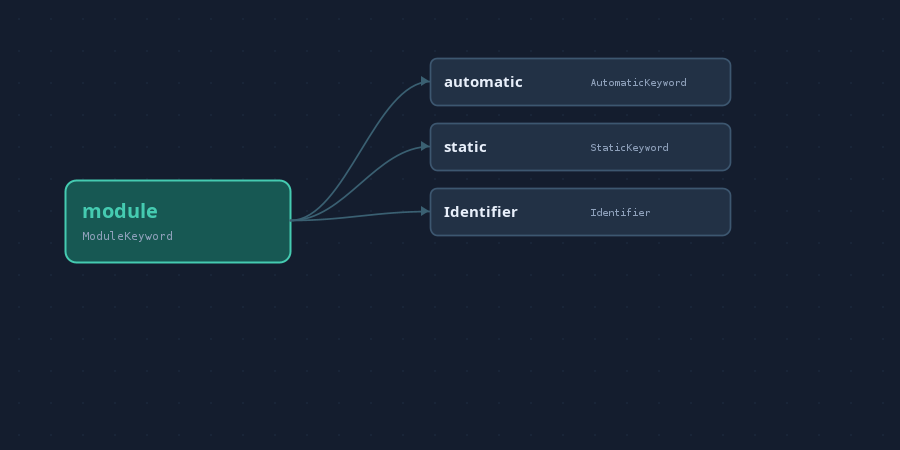
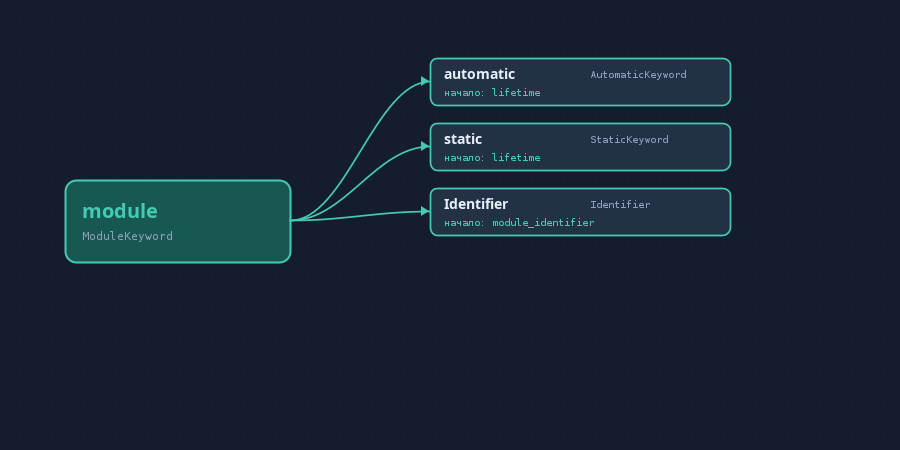
Show context-aware grammar rule starts

diff --git a/src/main/kotlin/dev/veriloggraph/GraphWindow.kt b/src/main/kotlin/dev/veriloggraph/GraphWindow.kt
@@ -39,7 +39,7 @@ private val light = Color(232, 239, 250)
 private val accent = Color(69, 203, 177)
 
 class GraphWindow(private val catalog: TokenCatalog, private val grammar: Grammar) : JFrame("VerilogGraph — IEEE 1800-2023") {
-    private val explorer = Explorer(grammar, catalog)
+    private val explorer = Explorer(grammar, catalog, "source_text")
     private val tokenGraph = TokenGraph(grammar, catalog)
     private val search = JTextField()
     private val tokenModel = DefaultListModel<TokenKind>()
@@ -142,6 +142,12 @@ class GraphWindow(private val catalog: TokenCatalog, private val grammar: Gramma
             }
         })
         actions.add(button("↺ module") { openModule() })
+        actions.add(button("↺ файл") {
+            globalToken = null
+            explorer.reset("source_text")
+            showingNext = true
+            refresh()
+        })
         actions.add(button("→ Дальше") {
             showingNext = true
             refresh()
@@ -209,7 +215,7 @@ class GraphWindow(private val catalog: TokenCatalog, private val grammar: Gramma
     }
 
     private fun selectToken(token: TokenKind) {
-        explorer.reset()
+        explorer.reset("source_text")
         globalToken = null
         showingNext = explorer.advance(token.name)
         if (!showingNext) {
@@ -221,7 +227,7 @@ class GraphWindow(private val catalog: TokenCatalog, private val grammar: Gramma
 
     private fun openModule() {
         globalToken = null
-        explorer.reset()
+        explorer.reset("source_text")
         check(explorer.advance("ModuleKeyword"))
         showingNext = false
         refresh()
@@ -251,14 +257,17 @@ class GraphWindow(private val catalog: TokenCatalog, private val grammar: Gramma
         val current = explorer.prefix.lastOrNull()
         path.text = explorer.prefix.joinToString("  →  ") { it.label }
         val candidates = if (showingNext) explorer.next() else emptyList()
-        graph.show(current, candidates, showingNext)
+        graph.show(current, candidates, showingNext, contextual = true)
         details.text = buildString {
             append("Контекст: ").append(explorer.root).append("\n")
             append("Префикс: ").append(explorer.prefix.joinToString(" ") { it.label }).append("\n")
             if (explorer.isComplete()) append("Правило может завершиться здесь.\n")
             if (!showingNext) append("Нажмите «→ Дальше», чтобы увидеть непосредственные продолжения.\n")
+            if (showingNext) append("Начало отмечает именованное правило Annex A, которое может начаться на следующем токене.\n")
             for (candidate in candidates) {
                 append("\n").append(candidate.token.label).append("  [").append(candidate.token.name).append("]\n")
+                if (candidate.starts.isEmpty()) append("  Без начала нового именованного правила.\n")
+                else append("  Могут начаться: ").append(candidate.starts.joinToString()).append("\n")
                 for (name in candidate.rules.take(3)) {
                     val source = grammar.sources[name]
                     if (source != null) append("  ").append(source.section).append("  ")
@@ -273,10 +282,10 @@ class GraphWindow(private val catalog: TokenCatalog, private val grammar: Gramma
 }
 
 fun saveModulePreview(catalog: TokenCatalog, grammar: Grammar, path: Path) {
-    val explorer = Explorer(grammar, catalog)
+    val explorer = Explorer(grammar, catalog, "source_text")
     check(explorer.advance("ModuleKeyword"))
     val canvas = GraphCanvas { }
-    canvas.show(catalog.byName["ModuleKeyword"], explorer.next(), true)
+    canvas.show(catalog.byName["ModuleKeyword"], explorer.next(), true, contextual = true)
     canvas.setSize(900, 450)
     val image = BufferedImage(900, 450, BufferedImage.TYPE_INT_ARGB)
     val graphics = image.createGraphics()
@@ -289,6 +298,7 @@ private class GraphCanvas(private val onChoose: (Candidate) -> Unit) : JPanel() 
     private var current: TokenKind? = null
     private var successors = emptyList<Candidate>()
     private var revealed = false
+    private var contextual = false
     private val hitboxes = mutableListOf<Pair<java.awt.Rectangle, Candidate>>()
 
     init {
@@ -307,10 +317,11 @@ private class GraphCanvas(private val onChoose: (Candidate) -> Unit) : JPanel() 
         })
     }
 
-    fun show(current: TokenKind?, successors: List<Candidate>, revealed: Boolean) {
+    fun show(current: TokenKind?, successors: List<Candidate>, revealed: Boolean, contextual: Boolean = false) {
         this.current = current
         this.successors = successors
         this.revealed = revealed
+        this.contextual = contextual
         preferredSize = Dimension(900, maxOf(450, 100 + successors.size * 65))
         revalidate()
         repaint()
@@ -348,20 +359,28 @@ private class GraphCanvas(private val onChoose: (Candidate) -> Unit) : JPanel() 
                 val tx = 430
                 val tw = 300
                 val th = 47
-                g2.color = Color(58, 96, 114)
+                val begins = contextual && candidate.starts.isNotEmpty()
+                g2.color = if (begins) accent else Color(58, 96, 114)
                 g2.stroke = BasicStroke(1.7f)
                 g2.draw(CubicCurve2D.Float((x + w).toFloat(), centerY.toFloat(), 345f, centerY.toFloat(), 375f, (y + 23).toFloat(), tx.toFloat(), (y + 23).toFloat()))
                 g2.fillPolygon(intArrayOf(tx - 1, tx - 9, tx - 9), intArrayOf(y + 23, y + 18, y + 28), 3)
                 g2.color = Color(34, 49, 69)
                 g2.fill(RoundRectangle2D.Float(tx.toFloat(), y.toFloat(), tw.toFloat(), th.toFloat(), 15f, 15f))
-                g2.color = Color(61, 87, 112)
+                g2.color = if (begins) accent else Color(61, 87, 112)
                 g2.draw(RoundRectangle2D.Float(tx.toFloat(), y.toFloat(), tw.toFloat(), th.toFloat(), 15f, 15f))
                 g2.color = light
-                g2.font = Font("SansSerif", Font.BOLD, 15)
-                g2.drawString(candidate.token.label.take(27), tx + 14, y + 29)
+                g2.font = Font("SansSerif", Font.BOLD, 14)
+                g2.drawString(candidate.token.label.take(19), tx + 14, y + 21)
                 g2.font = Font("Monospaced", Font.PLAIN, 10)
                 g2.color = muted
-                g2.drawString(candidate.token.name.take(22), tx + 160, y + 28)
+                g2.drawString(candidate.token.name.take(20), tx + 160, y + 20)
+                if (contextual) {
+                    g2.color = if (begins) accent else muted
+                    val rule = candidate.starts.firstOrNull { it.endsWith("_declaration") || it.endsWith("_construct") }
+                        ?: candidate.starts.firstOrNull()
+                    val label = if (rule == null) "без начала нового правила" else "начало: $rule"
+                    g2.drawString(label.take(45), tx + 14, y + 38)
+                }
                 hitboxes += java.awt.Rectangle(tx, y, tw, th) to candidate
             }
         } else {

diff --git a/src/test/kotlin/dev/veriloggraph/TransitionContextTest.kt b/src/test/kotlin/dev/veriloggraph/TransitionContextTest.kt
@@ -1,0 +1,79 @@
+package dev.veriloggraph
+
+import java.io.StringReader
+import java.io.StringWriter
+import kotlin.test.Test
+import kotlin.test.assertContains
+import kotlin.test.assertEquals
+import kotlin.test.assertFalse
+import kotlin.test.assertTrue
+
+class TransitionContextTest {
+    private fun file(): Explorer = TestFixture.explorer().apply { reset("source_text") }
+
+    private fun Explorer.candidate(kind: String): Candidate =
+        next().single { it.token.name == kind }
+
+    @Test fun nextModuleAfterEndmoduleStartsAnotherDescription() {
+        val explorer = file().accept("ModuleKeyword", "Identifier", "Semicolon", "EndModuleKeyword")
+        assertTrue(explorer.isComplete())
+        val module = explorer.candidate("ModuleKeyword")
+        assertContains(module.starts, "description")
+        assertContains(module.starts, "module_declaration")
+        assertContains(explorer.candidate("PackageKeyword").starts, "package_declaration")
+    }
+
+    @Test fun colonAfterEndmoduleContinuesTheSameModule() {
+        val explorer = file().accept("ModuleKeyword", "Identifier", "Semicolon", "EndModuleKeyword")
+        val colon = explorer.candidate("Colon")
+        assertEquals(emptySet(), colon.starts)
+        assertContains(colon.rules, "module_declaration")
+        explorer.accept("Colon", "Identifier")
+        assertTrue(explorer.isComplete())
+        assertContains(explorer.candidate("ModuleKeyword").starts, "module_declaration")
+    }
+
+    @Test fun topLevelEndmoduleCannotBeFollowedByAlwaysOrAnotherEndmodule() {
+        val explorer = file().accept("ModuleKeyword", "Identifier", "Semicolon", "EndModuleKeyword")
+        assertFalse(explorer.next().any { it.token.name == "AlwaysKeyword" })
+        assertFalse(explorer.next().any { it.token.name == "EndModuleKeyword" })
+        assertTrue(explorer.back())
+        assertFalse(explorer.next().any { it.token.name == "PackageKeyword" })
+        assertContains(explorer.candidate("AlwaysKeyword").starts, "always_construct")
+    }
+
+    @Test fun nestedEndmoduleCanStartAnAlwaysConstructInOuterModule() {
+        val explorer = file().accept(
+            "ModuleKeyword", "Identifier", "Semicolon",
+            "ModuleKeyword", "Identifier", "Semicolon", "EndModuleKeyword"
+        )
+        assertFalse(explorer.isComplete())
+        assertContains(explorer.candidate("AlwaysKeyword").starts, "always_construct")
+        assertEquals(emptySet(), explorer.candidate("EndModuleKeyword").starts)
+        assertContains(explorer.candidate("ModuleKeyword").starts, "module_declaration")
+        explorer.accept("EndModuleKeyword")
+        assertTrue(explorer.isComplete())
+    }
+
+    @Test fun isolatedModuleRuleDoesNotOfferNextTopLevelConstruct() {
+        val explorer = TestFixture.explorer().accept(
+            "ModuleKeyword", "Identifier", "Semicolon", "EndModuleKeyword"
+        )
+        assertEquals(setOf("Colon"), explorer.next().mapTo(linkedSetOf()) { it.token.name })
+        assertEquals(emptySet(), explorer.candidate("Colon").starts)
+    }
+
+    @Test fun cliShowsBoundaryOnlyForContextualTransitions() {
+        val output = StringWriter()
+        runCli(TestFixture.catalog, TestFixture.grammar,
+            StringReader("step module\nstep Identifier\nstep ;\nstep endmodule\nnext module\nnext :\nglobal endmodule module\nquit\n"),
+            output, "source_text")
+        val text = output.toString()
+        assertTrue(Regex("ModuleKeyword \\(module\\).*\\[начало: [^]]*module_declaration").containsMatchIn(text))
+        assertTrue(Regex("Colon \\(:\\).*\\[без начала нового правила\\]").containsMatchIn(text))
+        val global = text.substringAfter("Глобальные продолжения EndModuleKeyword")
+            .substringBefore("vg>")
+        assertFalse(global.contains("[начало:"))
+        assertFalse(global.contains("[без начала нового правила]"))
+    }
+}

diff --git a/src/main/kotlin/dev/veriloggraph/Explorer.kt b/src/main/kotlin/dev/veriloggraph/Explorer.kt
@@ -2,7 +2,12 @@ package dev.veriloggraph
 
 import java.util.ArrayDeque
 
-data class Candidate(val token: TokenKind, val rules: Set<String>)
+data class Candidate(
+    val token: TokenKind,
+    val rules: Set<String>,
+    /** Named Annex A rules that can begin at this token in the current prefix. */
+    val starts: Set<String> = emptySet(),
+)
 
 /** Earley prefix recognizer. Each click extends one grammar-valid token prefix. */
 class Explorer(
@@ -14,6 +19,7 @@ class Explorer(
 
     private val chart = mutableListOf(linkedSetOf<Item>())
     private val productive: Set<String> = findProductive()
+    private val first: Map<String, Set<String>> = findFirst()
     val prefix = mutableListOf<TokenKind>()
     var root: String = initialRule
         private set
@@ -36,13 +42,20 @@ class Explorer(
 
     fun next(): List<Candidate> {
         val groups = linkedMapOf<String, MutableSet<String>>()
+        val startingRules = chart.last().asSequence()
+            .filter { item -> item.origin == prefix.size && item.dot == 0 }
+            .map { item -> grammar.productions[item.production].left }
+            .filter { it in grammar.sources }
+            .distinct().toList()
         for (item in chart.last()) {
             val production = grammar.productions[item.production]
             val token = production.right.getOrNull(item.dot) as? Symbol.Token ?: continue
             groups.getOrPut(token.kind) { linkedSetOf() } += production.source
         }
         return groups.mapNotNull { (name, rules) ->
-            catalog.byName[name]?.let { Candidate(it, rules) }
+            catalog.byName[name]?.let { token ->
+                Candidate(token, rules, startingRules.filterTo(linkedSetOf()) { name in first[it].orEmpty() })
+            }
         }.sortedWith(compareBy({ it.token.spelling == null }, { it.token.label }))
     }
 
@@ -125,5 +138,33 @@ class Explorer(
             }
         } while (changed)
         return known
+    }
+
+    private fun findFirst(): Map<String, Set<String>> {
+        val first = grammar.byLeft.keys.associateWith { linkedSetOf<String>() }
+        val nullable = mutableSetOf<String>()
+        var changed: Boolean
+        do {
+            changed = false
+            for (production in grammar.productions) {
+                if (!production.isProductive()) continue
+                var empty = true
+                for (symbol in production.right) {
+                    when (symbol) {
+                        is Symbol.Token -> {
+                            if (first.getValue(production.left).add(symbol.kind)) changed = true
+                            empty = false
+                        }
+                        is Symbol.Rule -> {
+                            if (first.getValue(production.left).addAll(first[symbol.name].orEmpty())) changed = true
+                            empty = symbol.name in nullable
+                        }
+                    }
+                    if (!empty) break
+                }
+                if (empty && nullable.add(production.left)) changed = true
+            }
+        } while (changed)
+        return first
     }
 }

diff --git a/src/main/kotlin/dev/veriloggraph/Cli.kt b/src/main/kotlin/dev/veriloggraph/Cli.kt
@@ -35,7 +35,7 @@ fun runCli(
         out.println("Префикс: ${explorer.prefix.joinToString(" ") { it.tokenText() }.ifEmpty { "(пусто)" }}")
         out.println(if (explorer.isComplete()) "Конструкция может завершиться здесь." else "Конструкция пока не завершена.")
     }
-    fun candidates(items: List<Candidate>, limit: Int = 40) {
+    fun candidates(items: List<Candidate>, limit: Int = 40, contextual: Boolean = true) {
         if (items.isEmpty()) {
             out.println("Следующих токенов нет.")
             return
@@ -44,7 +44,12 @@ fun runCli(
         for (item in items.take(limit)) {
             val sources = item.rules.take(3).joinToString()
             val more = if (item.rules.size > 3) " (+${item.rules.size - 3})" else ""
-            out.println("  ${item.token.tokenText()}  ←  $sources$more")
+            val boundary = when {
+                !contextual -> ""
+                item.starts.isEmpty() -> "  [без начала нового правила]"
+                else -> "  [начало: ${item.starts.joinToString()}]"
+            }
+            out.println("  ${item.token.tokenText()}  ←  $sources$more$boundary")
         }
         if (items.size > limit) out.println("Показаны первые $limit; используйте фильтр команды.")
     }
@@ -124,7 +129,7 @@ fun runCli(
                         query.isEmpty() || query == "*" ||
                             it.token.name.contains(query, true) || it.token.label.contains(query, true)
                     }
-                    candidates(items, if (query == "*") Int.MAX_VALUE else 40)
+                    candidates(items, if (query == "*") Int.MAX_VALUE else 40, contextual = false)
                 }
             }
             "edge" -> {

diff --git a/README.md b/README.md
@@ -1,6 +1,6 @@
 # VerilogGraph
 
-Интерактивный граф видов токенов SystemVerilog на Kotlin/Swing. В левой панели — все 352 `TokenKind` из закреплённой ревизии [slang](https://github.com/MikePopoloski/slang). В центре — вершина и непосредственные допустимые продолжения; щелчок по вершине продвигает просмотр. Для `module` сохраняется грамматический контекст `module_declaration`, так что каждый следующий шаг относится к тому же префиксу конструкции.
+Интерактивный граф видов токенов SystemVerilog на Kotlin/Swing. В левой панели — все 352 `TokenKind` из закреплённой ревизии [slang](https://github.com/MikePopoloski/slang). В центре — вершина и непосредственные допустимые продолжения; щелчок по вершине продвигает просмотр. Сценарий `module` использует контекст `source_text`: после `endmodule` можно перейти к следующему объявлению. Для каждого продолжения показано, какие именованные правила Annex A могут начаться на этом токене. Кнопка `↺ файл` открывает начало исходного текста.
 
 ![Граф допустимых продолжений module](docs/module-preview.png)
 
@@ -20,6 +20,7 @@
 ```bash
 ./gradlew run
 ./gradlew run --args='--cli'
+./gradlew run --args='--cli source_text'
 ./gradlew run --args='--cli generate_region'
 ./gradlew check
 ./gradlew run --args='--check'
@@ -31,26 +32,26 @@ build/install/veriloggraph/bin/veriloggraph
 build/install/veriloggraph/bin/veriloggraph --cli
 ```
 
-`--cli` запускает интерактивный просмотр грамматики в терминале. `next` показывает допустимые следующие `TokenKind`, `next endmodule` фильтрует список, `next *` показывает его полностью. `step module` или `step ModuleKeyword` добавляет токен к префиксу, `back` отменяет шаг, `use package_declaration` меняет грамматическое правило. `rules [поиск]` и `tokens [поиск]` находят правила и токены; `rule <имя>` показывает текст правила; `global <токен> [поиск]` и `edge <от> <к>` показывают глобальные рёбра и их происхождение. Без фильтра длинный список ограничен первыми 40 строками. `help` выводит все команды, `quit` завершает сеанс. При запуске с аргументом `--cli <правило>` указанное правило выбирается сразу. Внутри CLI цепочка `step` проверяется в одном контексте; команда `global` показывает объединение рёбер без изменения текущего префикса.
+`--cli` запускает интерактивный просмотр грамматики в терминале. `next` показывает допустимые следующие `TokenKind` и правила, которые могут начаться на каждом из них; `next endmodule` фильтрует список, `next *` показывает его полностью. `step module` или `step ModuleKeyword` добавляет токен к префиксу, `back` отменяет шаг, `use source_text` переключает на просмотр целого файла, `use package_declaration` выбирает отдельное правило. `rules [поиск]` и `tokens [поиск]` находят правила и токены; `rule <имя>` показывает текст правила; `global <токен> [поиск]` и `edge <от> <к>` показывают глобальные рёбра и их происхождение. Без фильтра длинный список ограничен первыми 40 строками. `help` выводит все команды, `quit` завершает сеанс. При запуске с аргументом `--cli <правило>` указанное правило выбирается сразу. Внутри CLI цепочка `step` проверяется в одном контексте; команда `global` показывает объединение рёбер без изменения текущего префикса и без меток начала правил.
 
 `./gradlew check` запускает проверки графа автоматически. `--check` проверяет путь `module → Identifier → ; → endmodule`, вариант с `automatic`, буквальные скобки, числовую основу и системные проверки времени. `--audit` печатает обозначения, которые нельзя однозначно сопоставить с токеном. DOT экспортирует весь полученный граф с правилом происхождения на каждом ребре.
 `--preview` сохраняет изображение сценария `module → …` без запуска оконной системы.
 
-`./gradlew test` запускает 946 тестов. Из них 194 — конкретные примеры и проверки ошибок для каталога, импорта, CLI, чисел, графа, DOT, PNG и разных конструкций SystemVerilog. Ещё по одному тесту создано для каждого из 750 имён правил Annex A: для 725 развёрнутых правил строится кратчайшая цепочка `TokenKind` и проверяется её прохождение; 17 правил сверяются с одним видом токена slang; 8 посимвольных правил отмечены отдельно, поскольку не образуют самостоятельной цепочки токенов. Два теста проверяют границы этого покрытия. Автоматически построенные пути проверяют согласованность импортёра и пошагового просмотрщика. Конкретные сценарии дополнительно проверяют отдельные конструкции; полная независимая сверка извлечённой грамматики со стандартом ещё требуется. `./gradlew check` дополнительно запускает встроенную проверку типовых путей через `--check`.
+`./gradlew test` запускает 952 теста. Из них 200 — конкретные примеры и проверки ошибок для каталога, импорта, CLI, чисел, графа, DOT, PNG и разных конструкций SystemVerilog, включая границы после обычного и вложенного `endmodule`. Ещё по одному тесту создано для каждого из 750 имён правил Annex A: для 725 развёрнутых правил строится кратчайшая цепочка `TokenKind` и проверяется её прохождение; 17 правил сверяются с одним видом токена slang; 8 посимвольных правил отмечены отдельно, поскольку не образуют самостоятельной цепочки токенов. Два теста проверяют границы этого покрытия. Автоматически построенные пути проверяют согласованность импортёра и пошагового просмотрщика. Конкретные сценарии дополнительно проверяют отдельные конструкции; полная независимая сверка извлечённой грамматики со стандартом ещё требуется. `./gradlew check` дополнительно запускает встроенную проверку типовых путей через `--check`.
 
 ## Как устроены переходы
 
-Импортёр читает правила Annex A из PDF, сохраняет выделенные в нём буквальные терминалы, преобразует альтернативы, необязательные части и повторения в продукции, затем сопоставляет терминалы с реальными `TokenKind` slang. Граф строится из множеств первых и последних токенов продукций. Пошаговый просмотр `module_declaration` использует распознаватель префиксов Earley, поэтому после выбора `module` выводятся `automatic`, `static` и `Identifier`, а после `module Identifier` — `#`, `(`, `;` и `import`.
+Импортёр читает правила Annex A из PDF, сохраняет выделенные в нём буквальные терминалы, преобразует альтернативы, необязательные части и повторения в продукции, затем сопоставляет терминалы с реальными `TokenKind` slang. Глобальный граф строится из множеств первых и последних токенов продукций. Пошаговый просмотр использует распознаватель префиксов Earley, поэтому после выбора `module` выводятся `automatic`, `static` и `Identifier`, а после `module Identifier` — `#`, `(`, `;` и `import`. Для каждого следующего токена распознаватель сопоставляет текущие позиции начала правил с их допустимыми первыми токенами. Так после верхнеуровневого `endmodule` двоеточие продолжает тот же модуль, а `module` начинает новый `module_declaration`.
 
-При выборе другого токена из списка показывается объединение непосредственных переходов во всей грамматике. В этом режиме каждое ребро обосновано отдельно; составная цепочка может относиться к разным контекстам. Правила и разделы Annex A показаны под графом.
+Если выбранный токен из левого списка может начать `source_text`, он открывается в контекстном режиме. Для остальных токенов показывается объединение непосредственных переходов во всей грамматике. В этом режиме каждое ребро обосновано отдельно; составная цепочка может относиться к разным контекстам, поэтому метки начала правил не показываются. Правила и разделы Annex A показаны под графом.
 
 ## Состояние инструмента и следующие задачи
 
-Сейчас это просмотрщик **видов токенов**: в GUI можно искать токен, открыть его глобальные продолжения, а сценарий `module` проходить пошагово с сохранением грамматического контекста. Граф включает все 352 вида токенов закреплённой ревизии slang; переходы выводятся из импортированных правил Annex A. Доступны DOT, PNG примера, отчёт об импорте и запускаемый дистрибутив Gradle.
+Сейчас это просмотрщик **видов токенов**: в GUI можно искать токен, открыть его глобальные продолжения, а исходный текст проходить пошагово с сохранением грамматического контекста и отметками начала именованных правил. Граф включает все 352 вида токенов закреплённой ревизии slang; переходы выводятся из импортированных правил Annex A. Доступны DOT, PNG примера, отчёт об импорте и запускаемый дистрибутив Gradle.
 
 Для более точного ответа на вопрос «какой токен может идти следующим в *этом* коде» нужны следующие шаги:
 
-1. **Выбор контекста в GUI.** CLI уже позволяет выбрать произвольное импортированное правило, но графический интерфейс открывает контекстный маршрут только для `module_declaration`. Для остальных выбранных токенов в GUI показывается объединение рёбер разных правил; цепочка щелчков в этом режиме не проверяется как единый допустимый префикс.
+1. **Выбор произвольного правила в GUI.** Графический интерфейс проходит `source_text`, начиная с `module` или начала файла; CLI позволяет выбрать любое импортированное правило. Если токен из левого списка не может начать `source_text`, GUI показывает глобальные продолжения без контекстной проверки. Для него ещё нужен выбор правила в самом GUI.
 2. **Проверка конкретных написаний.** Вершина `Identifier` объединяет любые идентификаторы, а `IntegerBase` — несколько оснований числа. Рёбра не хранят текст лексем и пробелы между ними. Для проверки исходного файла понадобится принимать реальный поток токенов с написаниями и позициями и учитывать ограничения лексера и препроцессора slang.
 3. **Сверка всех случаев с закреплённой ревизией slang.** Сейчас тесты покрывают характерные и пограничные пути, но не сравнивают автоматически каждую последовательность с лексером и парсером slang. Нужен воспроизводимый набор примеров или генератор свидетелей для рёбер и тесты на точной ревизии из `SOURCE.txt`.
 4. **Доведение импорта до полной лексической части.** `--audit` всё ещё показывает 35 неразрешённых посимвольных обозначений в правилах, недостижимых из `source_text` и `library_text`. Также стоит устранить ручную нормализацию двух повреждённых заголовков PDF и проверить извлечение против другого экземпляра стандарта.
